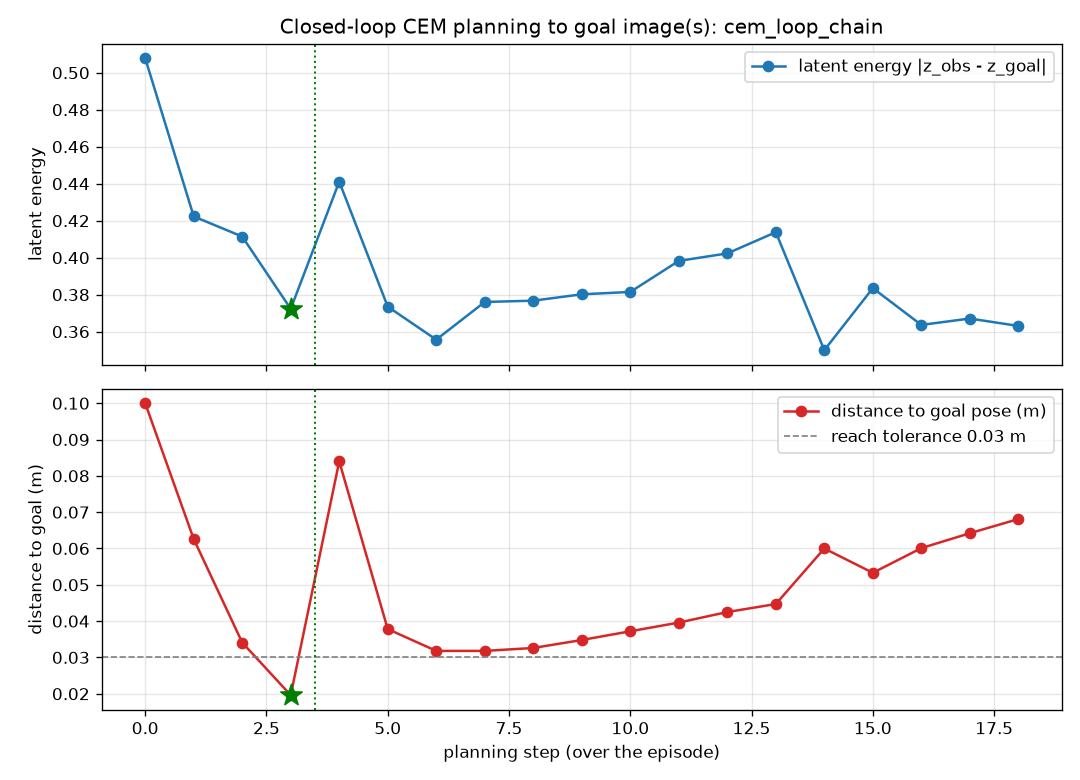
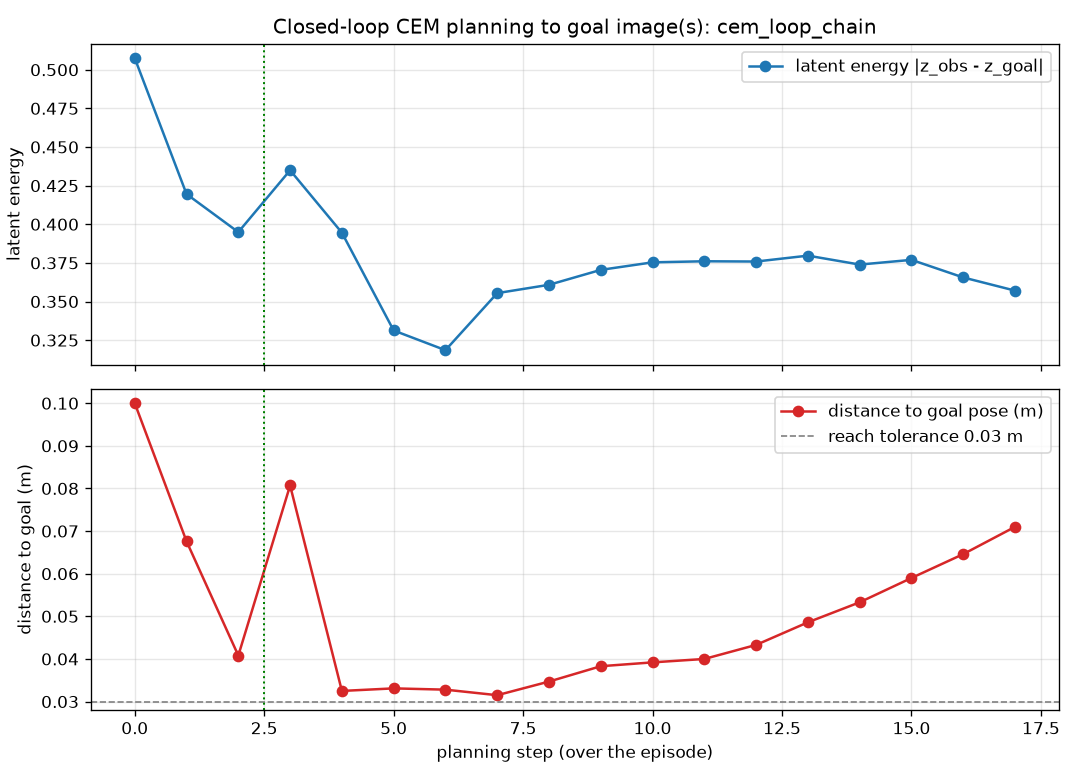
Phase 1: diagnose drift with realized-delta data (not a controller confound)
Re-ran the chain with the audit fixes. The commanded-vs-realized tracking error is
mean 9 mm / max 12 mm and constant -- ~5x smaller than the 35-72 mm drift and not
growing near the goal -- so the drift is a model/interface limit (energy landmark
~3 cm off the true pose + shallow lateral landscape + ~8 deg view-relative residual),
not controller tracking error. Gripper frozen and encode path matched, so those
confounds are removed too. Note the 3 cm tolerance sits at the precision floor
(sub-goal 1 landed 2.4 cm, sub-goal 2 3.2 cm). Updated the writeup + chain figure.

diff --git a/docs/experiments/cem_closed_loop.md b/docs/experiments/cem_closed_loop.md
@@ -50,17 +50,20 @@ Goals: reach +x, then reach +y from there (a 2-sub-goal chain).
 
 ![Chain: sub-goal 1 reached, sub-goal 2 plateaus and drifts](../../results/cem_loop/cem_loop_chain.png)
 
-- **Sub-goal 1** (+x) reached in 3 steps (dist 0.100 -> 0.020), and the controller **advanced**
+- **Sub-goal 1** (+x) reached in 3 steps (dist 0.100 -> 0.024), and the controller **advanced**
   to sub-goal 2 — the goal-image sequencing works.
 - **Sub-goal 2** (+y, lateral) dipped to ~0.032 m (just above the 0.03 m tolerance) at steps
-  5-6, then **drifted** back out to 0.068 m. It never crossed the tolerance.
+  1-4, then **drifted** back out to ~0.072 m. It never crossed the tolerance.
 
-This is an honest **precision limit of the vanilla model (~3-4 cm, worse on the lateral axis)**,
-not a loop bug: the camera ablation measured a ~8 deg residual rotation between the world frame
-and the model's inferred action frame at this camera, and the horizontal-plane energy landscape
-is shallow. Near the goal, small CEM corrections point slightly wrong and accumulate, so the
-arm hovers at 3-4 cm rather than settling. The first sub-goal happens to align well; the lateral
-sub-goal exposes the residual.
+**The drift is a model/interface limit, not a controller confound.** With the realized EE delta
+now logged (audit fix), the commanded-vs-realized tracking error is **mean 9 mm, max 12 mm, and
+constant across the episode** — roughly 5x smaller than the ~35-72 mm drift and not growing near
+the goal. The gripper is frozen and goal/context latents share the bf16 path, so those confounds
+are removed too. What remains: near the lateral goal the model keeps commanding a small spurious
+`+z` (realized ~0) and small lateral corrections that do not reduce the true pose distance — the
+energy landmark for this goal sits ~3 cm from the true pose and the horizontal landscape is
+shallow, so the arm hovers at the model's optimum (~3 cm) and then drifts. This matches the
+~8 deg view-relative residual measured in the camera ablation.
 
 ## Interpretation
 
@@ -79,10 +82,14 @@ sub-goal exposes the residual.
 
 - Reach success is on a single canonical goal from the home pose (n=1 per task); this validates
   the loop, it is not a success-rate benchmark (that is ManiSkill, Phase 3).
+- The 3 cm tolerance sits right at the vanilla precision floor: sub-goal 1 landed at 2.4 cm
+  (reached), sub-goal 2 at 3.2 cm (just over). A slightly looser tolerance would flip sub-goal 2
+  to "reached", so the headline is the ~3 cm precision floor, not a hard 1/2.
 - The goal here is a reach pose, not a grasped/stacked object — the pick/stack chaining is
   demonstrated with reach waypoints because the graspable-object scene is deferred
   (see [benchmark_plan.md](benchmark_plan.md)); the sub-goal machinery is ready for real goals.
-- No `W*` correction is applied yet; the ~8 deg residual is a known contributor to the drift.
+- No `W*` correction is applied yet; the ~8 deg residual is a measured contributor to the drift.
+- Controller confound ruled out by the logged tracking error (mean 9 mm), not assumed.
 
 ## Reproducibility
 